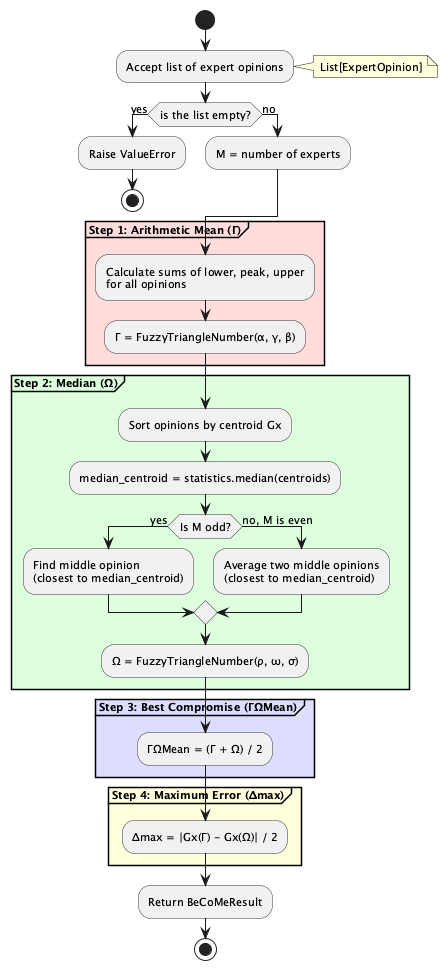
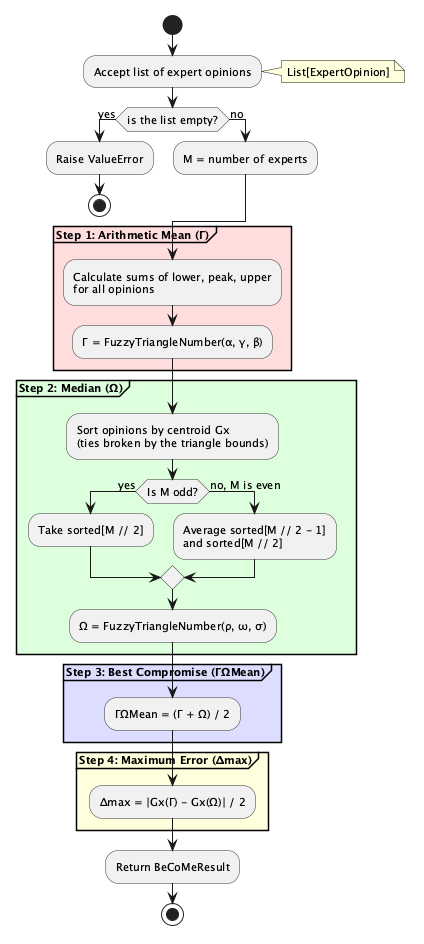
docs: fix what the review caught in the corrections

Changed region(s): [[0.0, 0.0, 0.9811, 1.0]]

diff --git a/migrations/versions/2026_08_22_1200-c4e81f7a9d23_add_example_project_support.py b/migrations/versions/2026_08_22_1200-c4e81f7a9d23_add_example_project_support.py
@@ -177,7 +177,7 @@ def downgrade() -> None:
     contributed an opinion to it, or been invited and not yet answered. Membership alone
     is not enough to decide that: a solo admin who opened the example, added their own
     opinion, and invited nobody is doing exactly what the feature invites someone to do
-    first. That admin has no other member, and a check that stopped at membership would
+    first. That project has no other member, and a check that stopped at membership would
     still delete that opinion out from under them. Likewise, an invitation that has not yet
     been accepted or declined leaves neither a membership nor an opinion behind, so it
     needs its own check. Without it, the real colleague being invited is the one

diff --git a/docs/uml-diagrams/README.md b/docs/uml-diagrams/README.md
@@ -12,6 +12,14 @@ Static structure of the codebase. `FuzzyTriangleNumber` holds three floats (lowe
 
 Composition arrows show containment (ExpertOpinion contains FuzzyTriangleNumber). Dashed arrows show dependencies (calculator uses opinions, creates results).
 
+## Class diagram: patterns
+
+![Class Diagram: Patterns](diagrams/png/class-diagram-patterns.png)
+
+The same classes seen through the two structures that shape them. `MedianCalculationStrategy` has one concrete subclass per parity: `OddMedianStrategy` takes the middle opinion, `EvenMedianStrategy` averages the two around the middle, and `BeCoMeCalculator` picks between them at run time instead of branching inline.
+
+`BaseAggregationCalculator` is the abstract side. All four of its methods are abstract and it sequences none of them, so what it fixes is the interface any second aggregation method would have to meet, not a shared implementation.
+
 ## Sequence diagram
 
 ![Sequence Diagram](diagrams/png/sequence-diagram.png)
@@ -25,14 +33,6 @@ With both Γ and Ω computed, the calculator averages them component-wise to get
 ![Activity Diagram](diagrams/png/activity-diagram.png)
 
 Algorithm flow with decision points. The odd/even branch in median calculation is the main fork: odd counts take the middle element directly, even counts average two neighbors. Color-coded partitions separate the four calculation phases: mean (red), median (green), compromise (blue), error (yellow).
-
-## Class diagram: patterns
-
-![Class Diagram: Patterns](diagrams/png/class-diagram-patterns.png)
-
-The same classes seen through the two structures that shape them. `MedianCalculationStrategy` has one concrete subclass per parity: `OddMedianStrategy` takes the middle opinion, `EvenMedianStrategy` averages the two around the middle, and `BeCoMeCalculator` picks between them at run time instead of branching inline.
-
-`BaseAggregationCalculator` is the abstract side. All four of its methods are abstract and it sequences none of them, so what it fixes is the interface any second aggregation method would have to meet, not a shared implementation.
 
 ## Activity diagram: simplified
 

diff --git a/docs/quality-report.md b/docs/quality-report.md
@@ -55,7 +55,7 @@ Mutation testing measures test suite quality. mutmut introduces small code chang
 
 | Metric | Value |
 |--------|-------|
-| Tool | mutmut 2.5.1, the version pinned on the run date (now 3.6.0) |
+| Tool | mutmut 2.5.1, the version `uv.lock` resolved on the run date; the project now pins 3.6.0 |
 | Target | `src/` (core library) |
 | Total mutants | 170 |
 | Killed | 120 |
@@ -115,7 +115,7 @@ Run date: 2026-02-22, on the same unresolvable commit as the mutation run above.
 | /api/v1/health | - | 1.9 | 1 | 3 | 10 | 3.2 |
 
 Environment: macOS (Apple Silicon), Python 3.13, PostgreSQL 16 (Docker), 10 concurrent users, 60s run.
-Tool: Locust 2.43.3, the version pinned on the run date. The pin has since moved to 2.46.2. Total requests: 1863, failures: 0.
+Tool: Locust 2.43.3, the version `uv.lock` resolved on the run date. The project now pins 2.46.2. Total requests: 1863, failures: 0.
 
 ```bash
 # Start API server
@@ -140,4 +140,4 @@ Measured from Prague (CZ) via Cloudflare edge (PRG) → Railway (europe-west4, N
 
 ## Configuration
 
-mypy runs in strict mode (`pyproject.toml`). ruff enforces pycodestyle, pyflakes, isort, bugbear, naming conventions, pyupgrade, bandit, and flake8-simplify. Line length is 100 characters.
+mypy runs in strict mode (`pyproject.toml`). ruff enforces pycodestyle, pyflakes, isort, bugbear, naming conventions, pyupgrade, bandit, flake8-simplify, and its own ruff-specific rules. Line length is 100 characters.

diff --git a/examples/data/README.md b/examples/data/README.md
@@ -58,7 +58,7 @@ Land owner 2 | 0 | 0 | 2
 
 Officials rated whether cross-border commuters should be allowed to travel during pandemic restrictions. Unlike other cases, responses used a Likert scale: 0 (strongly disagree), 25, 50, 75, 100 (strongly agree).
 
-Foreign Affairs strongly supported travel (100). Interior and Defense opposed it (0). The majority leaned toward disagreement: 10 of 22 chose "rather disagree" (25). Likert values
+Foreign Affairs strongly supported travel (100). Interior and Defense opposed it (0). The panel leaned toward disagreement: 14 of 22 answered 0 or 25, with "rather disagree" (25) the most common at 10. Likert values
 are crisp, so Lower = Peak = Upper.
 
 ```

diff --git a/examples/visualizations/README.md b/examples/visualizations/README.md
@@ -44,10 +44,9 @@ uv sync --extra viz --extra notebook
 
 ## Interactive features
 
-Charts render as static Matplotlib images. The controls around them are what is interactive:
-the sensitivity analysis redraws as soon as you toggle an expert, and the scenario dashboard as
-soon as you pick a different scenario. Every redraw runs in the notebook kernel, and nothing
-calls an external service.
+Charts render as static Matplotlib images. One view is interactive: the sensitivity analysis
+carries an ipywidgets checkbox per expert and redraws as soon as you toggle one. The redraw
+runs in the notebook kernel, and nothing calls an external service.
 
 ## Technical details
 

diff --git a/docs/environments.md b/docs/environments.md
@@ -25,7 +25,7 @@ This separation is what lets staging be realistic. A staging deploy sets `APP_EN
 
 ### dev
 
-The default. SQLite, debug on, localhost CORS, no startup validation. It needs no configuration.
+The default. SQLite, debug off, localhost CORS, and no startup guard on a laptop. It needs no configuration. The `.env.dev.example` template turns debug on, and the same profile on Railway is a deploy, so the guard applies to it.
 
 ```bash
 uv run uvicorn api.main:app --reload
